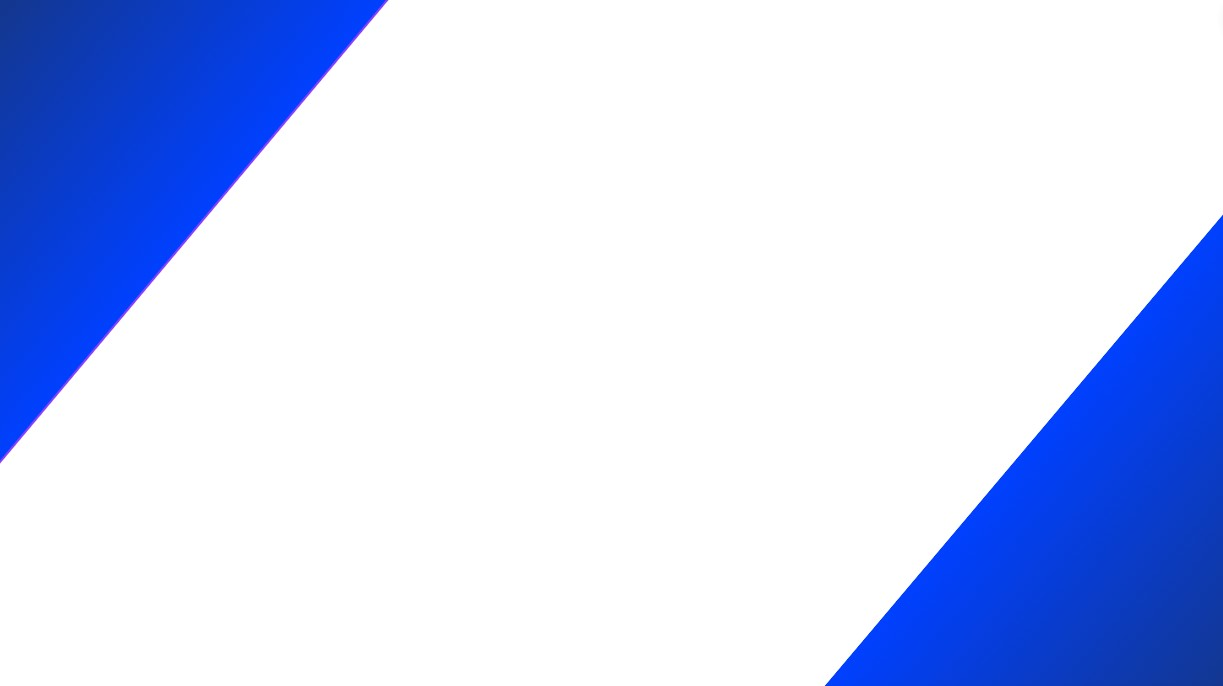
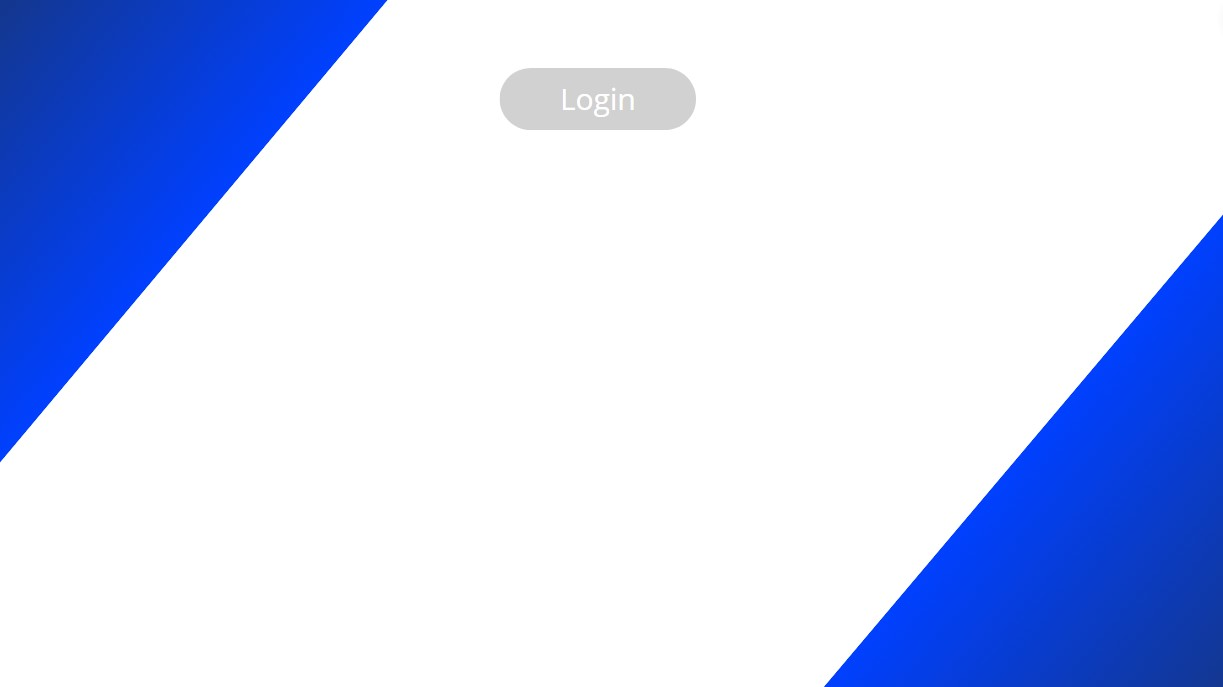
mudancas para a vida

diff --git a/frontend/styles.css b/frontend/styles.css
@@ -3,3 +3,12 @@ body {
     background-size: cover; /* Ajusta a imagem para cobrir todo o fundo */
     background-repeat: no-repeat; /* Impede a repetição da imagem */
   }
+
+.login{
+    border: 2px solid rgb(199, 199, 199);
+    margin-top: 15%;
+    display: flex;
+    flex-direction: column;
+    margin-left: 35%;
+    margin-right: 37%;
+}

diff --git a/frontend/login.html b/frontend/login.html
@@ -8,8 +8,14 @@
       <link rel="stylesheet" href="styles.css">
     </head>
     <body>
-      <h1>Bem-vindo ao meu site!</h1>
+        <div class="login">
+            <p>a</p>a
+            <p>a</p>
+            a
+            
+        </div>
     </body>
+    
     </html>
 
 
